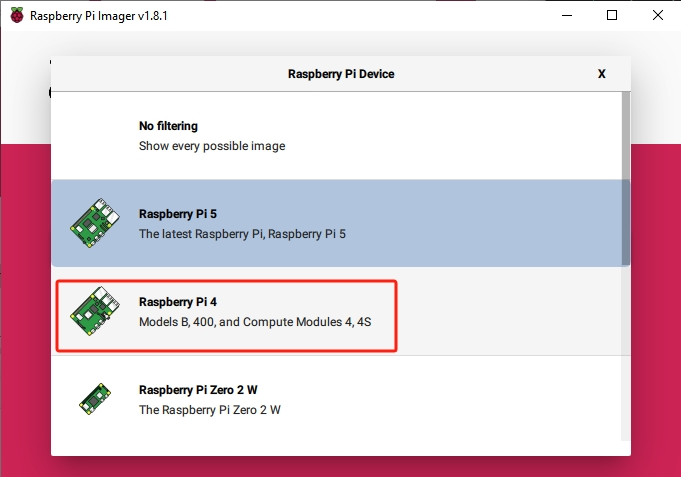
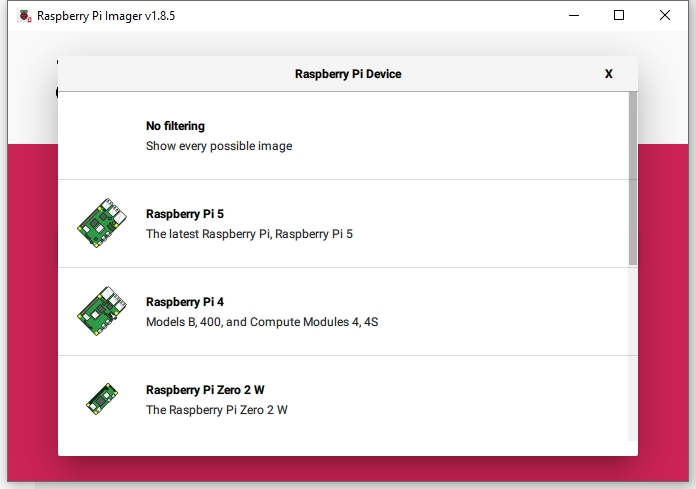
add insert sd

Changed region(s): [[0.0, 0.0, 1.0, 1.0], [0.185, 0.2348, 0.4317, 0.3229]]

diff --git a/docs/source/python/python_start/installing_the_os.rst b/docs/source/python/python_start/installing_the_os.rst
@@ -48,7 +48,7 @@
 
 #. Within the Imager, click **Raspberry Pi Device** and select the Raspberry Pi model from the dropdown list.
 
-    .. image:: img/os_choose_device_pi5.png
+    .. image:: img/os_choose_device.png
         :align: center
 
 #. Select **Operating System** and opt for the recommended operating system version.
@@ -131,3 +131,8 @@
     .. image:: img/os_finish.png
         :align: center
 
+#. Now you can insert the SD card set up with Raspberry Pi OS into the microSD card slot located on the underside of the Raspberry Pi.
+
+    .. image:: img/insert_sd_card.png
+        :width: 500
+        :align: center

diff --git a/docs/source/python/python_start/charge_battery.rst b/docs/source/python/python_start/charge_battery.rst
@@ -15,11 +15,7 @@
 3. Power Supply for Raspberry Pi (Important)
 =====================================================
 
-Insert the SD card set up with Raspberry Pi OS into the microSD card slot located on the underside of the Raspberry Pi.
 
-    .. image:: img/insert_sd_card.png
-        :width: 500
-        :align: center
 
 Charge
 -------------------
